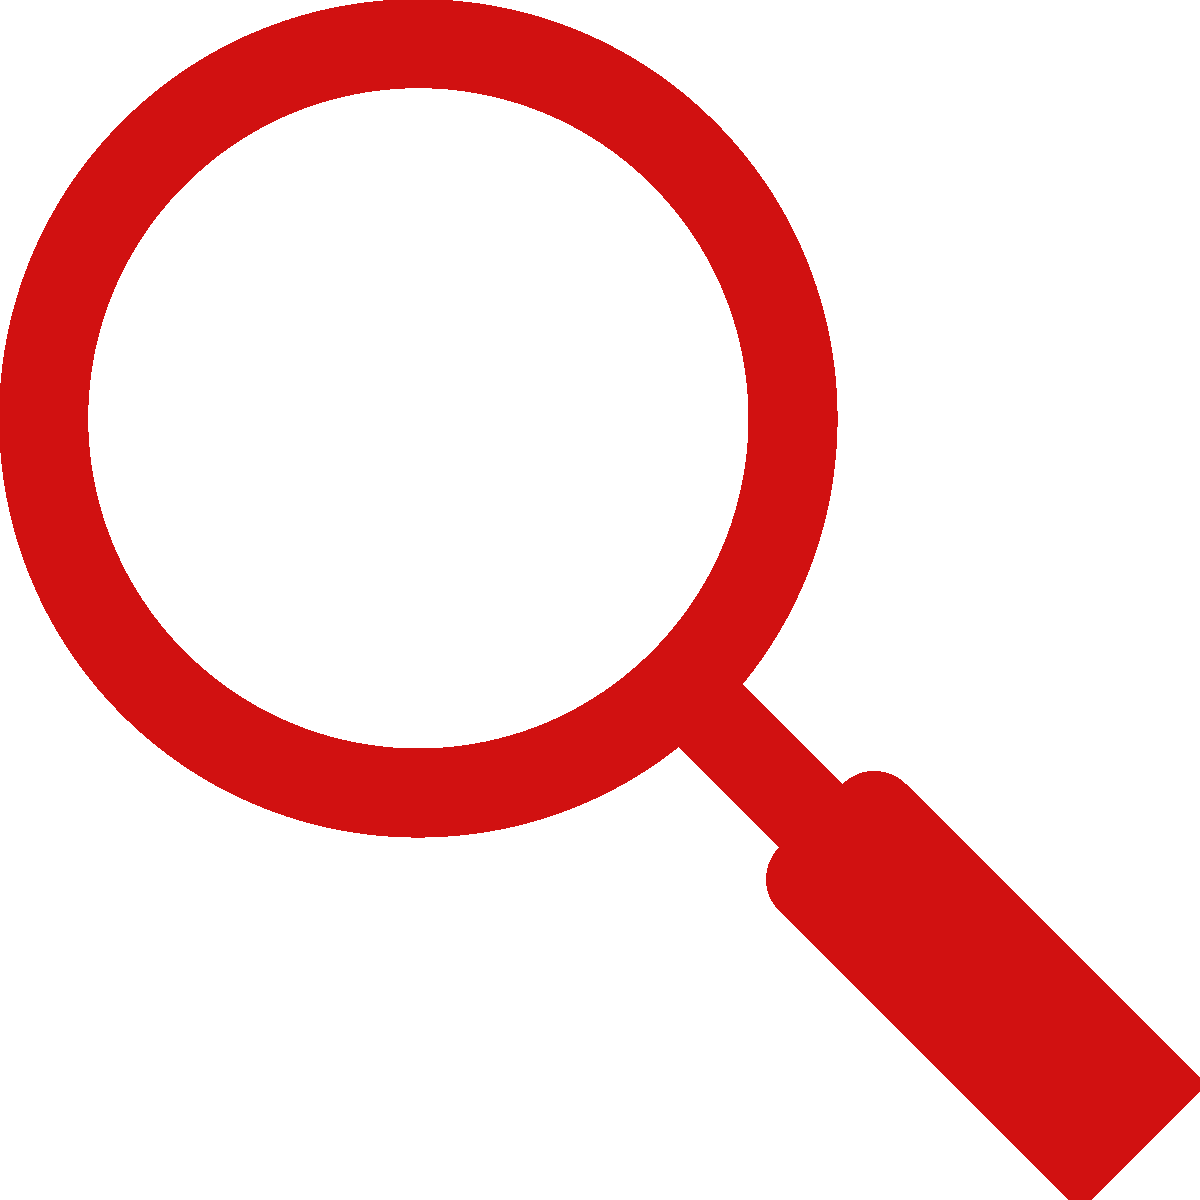
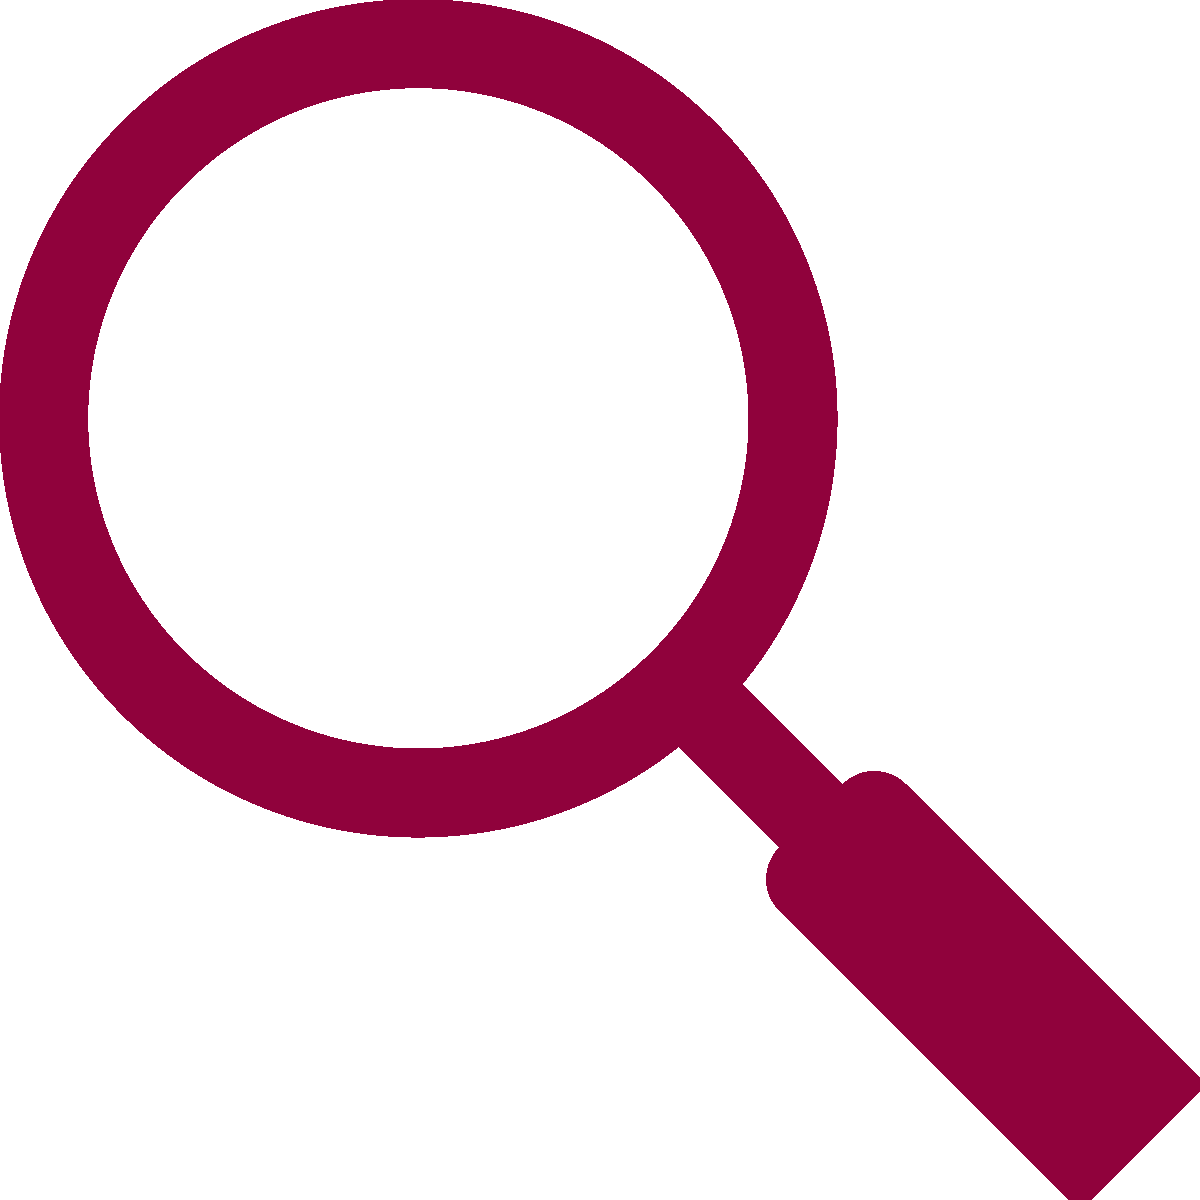
22.11.2021

Changed region(s): [[0.0, 0.0, 1.0, 1.0]]

diff --git a/index.html b/index.html
@@ -6,6 +6,7 @@
         <title>Individual project</title>
         <link rel="stylesheet" href="main&nav.css">
         <link rel="stylesheet" href="sections.css">
+        <link rel="icon" href="logo.png">
         <script src="scriptScroll.js" defer></script>
         <script src="script.js" defer></script>
     </head>
@@ -68,9 +69,6 @@
             <section>
                 <div class="internet_content">
                     <h1>Wyszukiwarka Bing</h1>
-                    <div class="internet_describe">
-                        <p>Poniższy formularz pozwala na przeszukiwanie stron internetowych w serwisie bing.com. Spróbuj wpisać "Informatyka stosowana" i dowiedz się więcej na temat mojego kierunku studiów!</p>
-                    </div>
                     <div class="internet_explorer">
                         <form action="https://www.bing.com/search?">
                             <div>
@@ -78,6 +76,9 @@
                                 <input type="submit" value="s">
                             </div>
                         </form>
+                    </div>
+                    <div class="internet_describe">
+                        <p>Powyższy formularz pozwala na przeszukiwanie stron internetowych w serwisie bing.com.<br> Spróbuj wpisać "Informatyka stosowana" aby dowiedzieć się więcej na temat mojego kierunku studiów!</p>
                     </div>
                 </div>
             </section>

diff --git a/sections.css b/sections.css
@@ -116,12 +116,12 @@ ul{
 
 .internet_content{
     width: 60%;
-    text-align: justify;
+    text-align: center;
 }
 
 .internet_content h1{
     text-align: center;
-    margin-bottom: 10vh;
+    margin-bottom: 12vh;
     letter-spacing: 20px;
     text-decoration: underline;
     text-decoration-color: var(--contrastColor);
@@ -135,7 +135,8 @@ ul{
 }
 
 .internet_describe{
-    margin-bottom: 50px;
+
+    font-size: 16pt;
 }
 
 input{
@@ -165,4 +166,5 @@ form div{
     padding-right: 10px;
     padding-left: 20px;
     border-radius: 10px;
+    margin-bottom: 50px;
 }

diff --git a/main&nav.css b/main&nav.css
@@ -5,7 +5,7 @@
 }
 
 :root {
-    --contrastColor: #d11111;
+    --contrastColor: #90023c;
 }
 
 body{
@@ -59,7 +59,7 @@ section{
 }
 
 .se_edited{
-    background-color: rgb(0, 0, 0);
+    background-color: rgb(104, 104, 104);
     color: white;
 }
 
